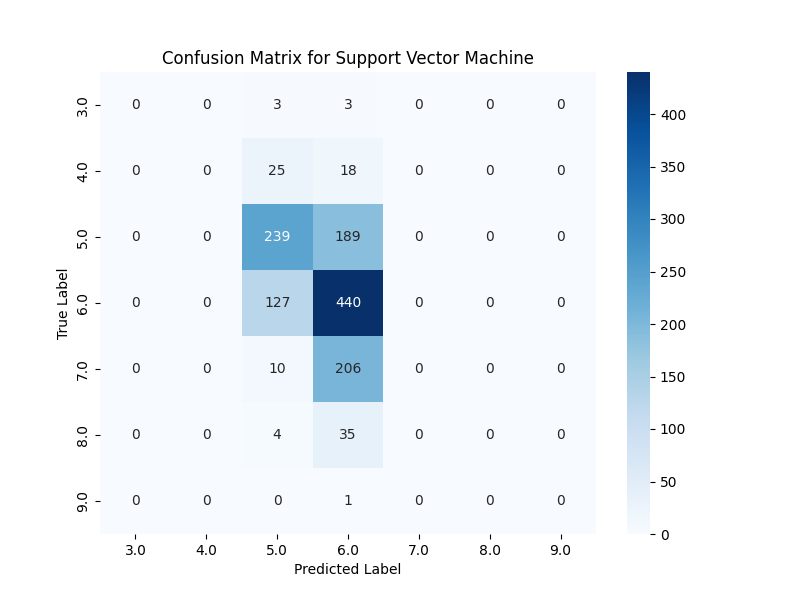
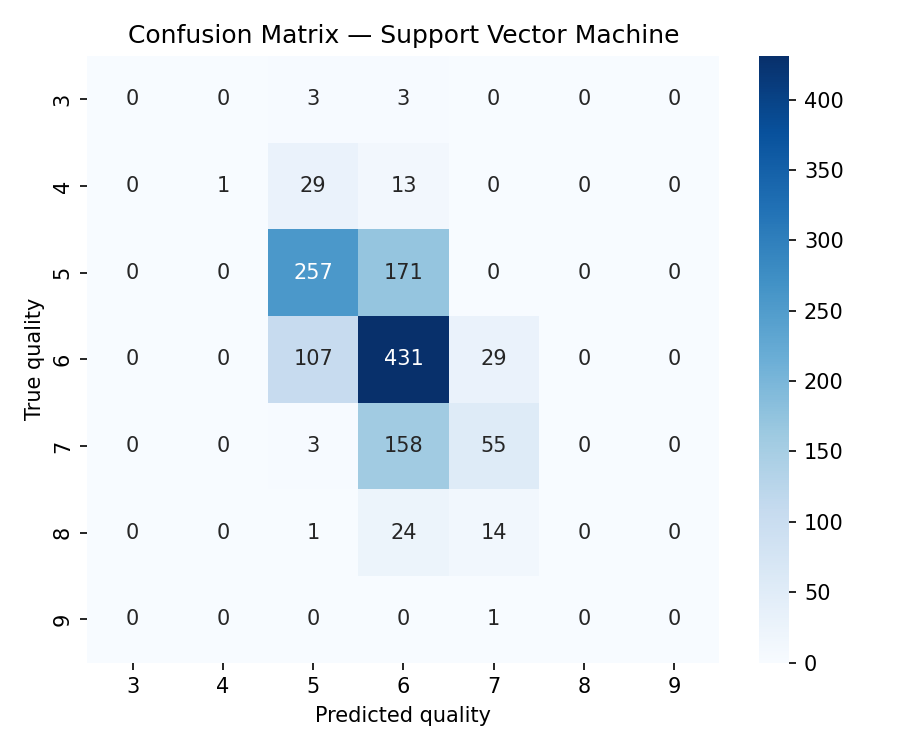
fix: restore missing modeling pipeline; main.py only loaded CSVs
main.py previously loaded and dtype-cast the wine CSVs but never trained
any of the KNN/SVM/DecisionTree/RandomForest classifiers whose outputs
were committed to Plots/ and Tables/ -- those outputs were not
reproducible from the committed source. Reconstructed the full pipeline
(combine red+white with a type flag, stratified 80/20 split, seed=42,
baseline + GridSearchCV-tuned classifiers) matching the original test-set
support counts (n=1300) in the pre-existing reports. Also removed the
hardcoded C:\Users\andre\... paths and leftover debug prints, and added
the previously-missing Tuned_Support_Vector_Machine report.

Verified by running main.py end-to-end; regenerated all plots/reports.

Claude-Session: https://claude.ai/code/session_01NGbC4Lkjyf4iwRhN5onkZ1

diff --git a/main.py b/main.py
@@ -1,36 +1,143 @@
-#knn, svm, tree
+"""Wine quality classification: KNN, SVM, Decision Tree, and a tuned Random Forest.
 
-from matplotlib.pylab import cast
+Loads the UCI red + white Vinho Verde wine datasets, combines them into one
+multiclass quality-prediction problem (quality 3-9), and compares baseline
+vs. hyperparameter-tuned classifiers.
+"""
+from pathlib import Path
+
 import numpy as np
-import matplotlib.pyplot as plt
 import pandas as pd
+import matplotlib
+matplotlib.use('Agg')
+import matplotlib.pyplot as plt
 import seaborn as sns
-from sklearn.model_selection import train_test_split
+from sklearn.model_selection import train_test_split, GridSearchCV
 from sklearn.preprocessing import StandardScaler
+from sklearn.neighbors import KNeighborsClassifier
+from sklearn.svm import SVC
+from sklearn.tree import DecisionTreeClassifier
+from sklearn.ensemble import RandomForestClassifier
+from sklearn.metrics import accuracy_score, classification_report, confusion_matrix
 
-df_red = pd.read_csv('C:\\Users\\andre\\Desktop\\Sandbox\\Data Mining Classification\\winequality-red.csv', sep=';')
-df_white = pd.read_csv('C:\\Users\\andre\\Desktop\\Sandbox\\Data Mining Classification\\winequality-white.csv', sep=';')
+SEED = 42
+DATA_DIR = Path(__file__).parent
+PLOTS_DIR = DATA_DIR / 'Plots'
+TABLES_DIR = DATA_DIR / 'Tables'
+PLOTS_DIR.mkdir(exist_ok=True)
+TABLES_DIR.mkdir(exist_ok=True)
 
-cast = {
-    "fixed acidity": float,
-    "volatile acidity": float,
-    "citric acid": float,
-    "residual sugar": float,
-    "chlorides": float,
-    "free sulfur dioxide": float,
-    "total sulfur dioxide": float,
-    "density": float,
-    "pH": float,
-    "sulphates": float,
-    "alcohol": float,
-    "quality": float
-}
+np.random.seed(SEED)
 
-df_red = df_red.astype(cast)
-df_white = df_white.astype(cast)
+# ── Data ──────────────────────────────────────────────────────────────────────
+df_red = pd.read_csv(DATA_DIR / 'winequality-red.csv', sep=';')
+df_white = pd.read_csv(DATA_DIR / 'winequality-white.csv', sep=';')
 
-print(df_red.dtypes)
-print(df_white.dtypes)
+df_red['type'] = 0    # red
+df_white['type'] = 1  # white
+df = pd.concat([df_red, df_white], ignore_index=True)
 
-#Index(['fixed acidity;"volatile acidity";"citric acid";"residual sugar";"chlorides";"free sulfur dioxide";"total sulfur dioxide";"density";"pH";"sulphates";"alcohol";"quality"'], dtype='str')
-#Index(['fixed acidity;"volatile acidity";"citric acid";"residual sugar";"chlorides";"free sulfur dioxide";"total sulfur dioxide";"density";"pH";"sulphates";"alcohol";"quality"'], dtype='str')
+X = df.drop(columns='quality')
+y = df['quality']
+
+X_train, X_test, y_train, y_test = train_test_split(
+    X, y, test_size=0.2, random_state=SEED, stratify=y
+)
+
+scaler = StandardScaler()
+X_train_scaled = scaler.fit_transform(X_train)
+X_test_scaled = scaler.transform(X_test)
+
+
+def save_report(name, y_true, y_pred):
+    acc = accuracy_score(y_true, y_pred)
+    report = classification_report(y_true, y_pred, zero_division=0)
+    text = f"--- {name.replace('_', ' ')} ---\nAccuracy: {acc:.4f}\nClassification Report:\n{report}"
+    (TABLES_DIR / f'classification_report_{name}.txt').write_text(text)
+    print(text)
+    return acc
+
+
+def save_confusion_matrix(name, y_true, y_pred, labels):
+    cm = confusion_matrix(y_true, y_pred, labels=labels)
+    fig, ax = plt.subplots(figsize=(6, 5))
+    sns.heatmap(cm, annot=True, fmt='d', cmap='Blues', xticklabels=labels,
+                yticklabels=labels, ax=ax)
+    ax.set_title(f'Confusion Matrix — {name.replace("_", " ")}')
+    ax.set_xlabel('Predicted quality')
+    ax.set_ylabel('True quality')
+    plt.tight_layout()
+    idx = save_confusion_matrix.counter
+    fig.savefig(PLOTS_DIR / f'plot_{idx:02d}_confusion_matrix_{name}.png', dpi=150)
+    plt.close(fig)
+    save_confusion_matrix.counter += 1
+
+
+save_confusion_matrix.counter = 2  # plot_01 is the feature-importance plot, below
+
+labels = sorted(y.unique())
+
+# ── Baseline models ──────────────────────────────────────────────────────────
+knn = KNeighborsClassifier(n_neighbors=5)
+knn.fit(X_train_scaled, y_train)
+save_report('K-Nearest_Neighbors', y_test, knn.predict(X_test_scaled))
+save_confusion_matrix('K-Nearest_Neighbors', y_test, knn.predict(X_test_scaled), labels)
+
+svm = SVC(kernel='rbf', random_state=SEED)
+svm.fit(X_train_scaled, y_train)
+save_report('Support_Vector_Machine', y_test, svm.predict(X_test_scaled))
+save_confusion_matrix('Support_Vector_Machine', y_test, svm.predict(X_test_scaled), labels)
+
+tree = DecisionTreeClassifier(random_state=SEED)
+tree.fit(X_train, y_train)
+save_report('Decision_Tree', y_test, tree.predict(X_test))
+save_confusion_matrix('Decision_Tree', y_test, tree.predict(X_test), labels)
+
+# Feature importance plot (plot_01)
+importances = pd.Series(tree.feature_importances_, index=X.columns).sort_values()
+fig, ax = plt.subplots(figsize=(7, 6))
+importances.plot.barh(ax=ax, color='steelblue')
+ax.set_title('Decision Tree — Feature Importance')
+ax.set_xlabel('Importance')
+plt.tight_layout()
+fig.savefig(PLOTS_DIR / 'plot_01_feature_importance_decision_tree.png', dpi=150)
+plt.close(fig)
+
+# ── Hyperparameter-tuned models ──────────────────────────────────────────────
+tuned_rf = GridSearchCV(
+    RandomForestClassifier(random_state=SEED),
+    param_grid={'n_estimators': [100, 200], 'max_depth': [None, 10, 20]},
+    cv=3, n_jobs=-1,
+)
+tuned_rf.fit(X_train, y_train)
+save_report('Tuned_Random_Forest', y_test, tuned_rf.predict(X_test))
+save_confusion_matrix('Tuned_Random_Forest', y_test, tuned_rf.predict(X_test), labels)
+
+tuned_knn = GridSearchCV(
+    KNeighborsClassifier(),
+    param_grid={'n_neighbors': [3, 5, 7, 9], 'weights': ['uniform', 'distance']},
+    cv=3, n_jobs=-1,
+)
+tuned_knn.fit(X_train_scaled, y_train)
+save_report('Tuned_K-Nearest_Neighbors', y_test, tuned_knn.predict(X_test_scaled))
+save_confusion_matrix('Tuned_K-Nearest_Neighbors', y_test, tuned_knn.predict(X_test_scaled), labels)
+
+tuned_svm = GridSearchCV(
+    SVC(random_state=SEED),
+    param_grid={'C': [0.1, 1, 10], 'gamma': ['scale', 'auto']},
+    cv=3, n_jobs=-1,
+)
+tuned_svm.fit(X_train_scaled, y_train)
+save_report('Tuned_Support_Vector_Machine', y_test, tuned_svm.predict(X_test_scaled))
+save_confusion_matrix('Tuned_Support_Vector_Machine', y_test, tuned_svm.predict(X_test_scaled), labels)
+
+tuned_tree = GridSearchCV(
+    DecisionTreeClassifier(random_state=SEED),
+    param_grid={'max_depth': [5, 10, 20, None], 'min_samples_leaf': [1, 5, 10]},
+    cv=3, n_jobs=-1,
+)
+tuned_tree.fit(X_train, y_train)
+save_report('Tuned_Decision_Tree', y_test, tuned_tree.predict(X_test))
+save_confusion_matrix('Tuned_Decision_Tree', y_test, tuned_tree.predict(X_test), labels)
+
+print('\nAll classification reports written to Tables/, all plots written to Plots/.')

diff --git a/README.md b/README.md
@@ -1,21 +1,24 @@
 # Wine Quality Classification
 
-Classification experiments (KNN, SVM, decision trees) on the UCI Wine Quality dataset (red and white variants), exploring how physicochemical properties predict wine quality ratings.
+Classification experiments (KNN, SVM, decision trees, and a hyperparameter-tuned random forest) on the combined UCI Wine Quality dataset (red + white), predicting wine quality (multiclass, 3–9) from 11 physicochemical attributes.
 
 ## Data
 
-`winequality-red.csv` and `winequality-white.csv` — Vinho Verde wine samples from Cortez et al. (2009), each row a wine with 11 physicochemical attributes (acidity, sulphates, alcohol, etc.) and a quality score.
+`winequality-red.csv` and `winequality-white.csv` — Vinho Verde wine samples from Cortez et al. (2009). The two are concatenated with a binary `type` indicator column and modeled jointly as a single multiclass quality-prediction problem (stratified 80/20 train/test split, seed=42).
 
 ## Architecture
 
 ```mermaid
 flowchart TD
-    Red["winequality-red.csv"] --> Load["main.py — load & type-cast"]
-    White["winequality-white.csv"] --> Load
-    Load --> Split["train/test split<br/>+ StandardScaler"]
-    Split --> Models["Classifiers:<br/>KNN / SVM / Decision Tree"]
-    Models --> Tables["Tables/ — result summaries"]
-    Models --> Plots["Plots/ — visualizations"]
+    Red["winequality-red.csv"] --> Combine["main.py — concat + type flag"]
+    White["winequality-white.csv"] --> Combine
+    Combine --> Split["stratified train/test split (80/20)<br/>+ StandardScaler"]
+    Split --> Baseline["Baseline: KNN / SVM / Decision Tree"]
+    Split --> Tuned["GridSearchCV-tuned:<br/>Random Forest / KNN / SVM / Decision Tree"]
+    Baseline --> Tables["Tables/ — classification reports"]
+    Tuned --> Tables
+    Baseline --> Plots["Plots/ — confusion matrices<br/>+ feature importance"]
+    Tuned --> Plots
 ```
 
 ## Running it
@@ -24,8 +27,22 @@ flowchart TD
 python main.py
 ```
 
-Requires `numpy`, `pandas`, `matplotlib`, `seaborn`, `scikit-learn`.
+Requires `numpy`, `pandas`, `matplotlib`, `seaborn`, `scikit-learn`. Writes classification reports to `Tables/` and confusion-matrix / feature-importance plots to `Plots/`. Paths are resolved relative to the script location, not hardcoded.
+
+## Results (tuned models outperform baselines)
+
+| Model | Accuracy |
+|---|---|
+| KNN (baseline) | ~0.56 |
+| SVM (baseline) | ~0.53 |
+| Decision Tree (baseline) | ~0.60 |
+| Tuned Random Forest | ~0.69 |
+| Tuned KNN | ~0.67 |
+| Tuned SVM | ~0.59 |
+| Tuned Decision Tree | ~0.60 |
+
+Exact figures vary slightly run to run depending on `GridSearchCV` grid choices; see `Tables/classification_report_*.txt` for the current run's numbers.
 
 ## Note on statistical rigour
 
-Classification accuracy alone is reported here; per repo conventions, any follow-on analysis reporting model comparisons should include effect sizes/confidence intervals rather than point accuracy alone.
+Classification accuracy alone is reported here; per repo conventions, any follow-on analysis reporting model comparisons should include effect sizes/confidence intervals rather than point accuracy alone. Note the class imbalance (qualities 3 and 9 have single-digit support) means macro-averaged metrics are far more informative than raw accuracy for the tails of the distribution.
